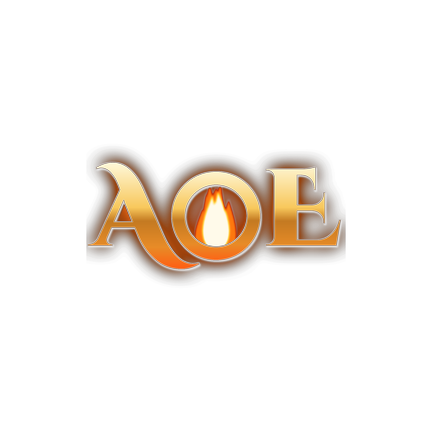
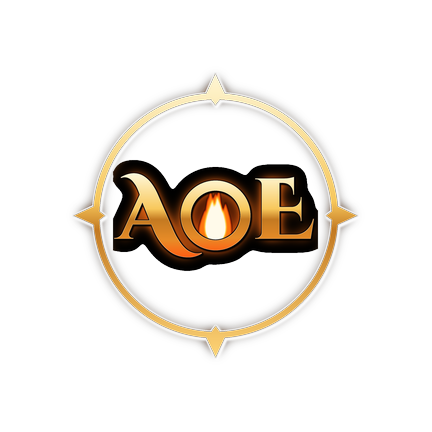
Ícone do app: AOE dentro do anel dourado de 4 pontas (como o do Aethra), pedido do André
Claude-Session: https://claude.ai/code/session_01P1kkg6tbyG8xzAx2skZLvW

Changed region(s): [[0.1505, 0.1505, 0.8426, 0.8426]]

diff --git a/ferramentas/icone/icone_anel.py b/ferramentas/icone/icone_anel.py
@@ -1,0 +1,39 @@
+import sys; sys.path.insert(0,'/tmp/claude-0/logo')
+from logo import *
+od=sys.argv[1]; LARG=float(sys.argv[2]) if len(sys.argv)>2 else 0.64
+em,al=emblema("aoe")
+bb=al.point(lambda v:255 if v>40 else 0).getbbox()
+def anel_simples(cx,cy,R):
+    m=anel(cx,cy,R,int(R*0.055)); d=ImageDraw.Draw(m)
+    for k in range(4):
+        a=k*math.pi/2+math.pi/2*0  # cima, direita, baixo, esquerda
+        r1=R*1.16; r0=R*0.9; w=R*0.075
+        px,py=cx+math.cos(a)*r1,cy+math.sin(a)*r1; bx,by=cx+math.cos(a)*r0,cy+math.sin(a)*r0
+        mx,my=cx+math.cos(a)*R,cy+math.sin(a)*R
+        nx,ny=-math.sin(a)*w,math.cos(a)*w
+        d.polygon([(px,py),(mx+nx,my+ny),(bx,by),(mx-nx,my-ny)],fill=255)
+    return m
+def fundo():
+    g=grad(S,S,0,S,[(0,(40,22,58)),(0.6,(22,12,34)),(1,(70,24,10))])
+    brasas(g,(S*0.05,S*0.05,S*0.95,S*0.95),45,seed=9,tam=2.5); return g
+def simbolo(larg):
+    w=bb[2]-bb[0]; cx=(bb[0]+bb[2])/2; cy=(bb[1]+bb[3])/2; lado=w/larg
+    box=(int(cx-lado/2),int(cy-lado/2),int(cx+lado/2),int(cy+lado/2))
+    pad=Image.new("RGB",(S*3,S*3)); pad.paste(em,(S,S)); pa=L(S*3,S*3); pa.paste(al,(S,S))
+    b=tuple(v+S for v in box)
+    return pad.crop(b).resize((S,S),Image.LANCZOS), pa.crop(b).resize((S,S),Image.LANCZOS)
+def compor(larg, com_fundo=True):
+    img=fundo() if com_fundo else Image.new("RGB",(S,S))
+    R=S*0.37; ring=anel_simples(S/2,S/2,R)
+    # fundo dentro do anel um pouco mais claro (como o Aethra)
+    if com_fundo:
+        dentro=L(); ImageDraw.Draw(dentro).ellipse([S/2-R,S/2-R,S/2+R,S/2+R],fill=255)
+        img.paste(solid((70,40,90)),(0,0),dentro.filter(ImageFilter.GaussianBlur(R*0.5)).point(lambda v:int(v*0.45)))
+    brilho(img,ring,(255,120,30),30,0.9)
+    metal(img,ring,S/2-R*1.16,S/2+R*1.16,9,[(0,(255,247,214)),(0.45,(248,200,92)),(0.55,(196,122,34)),(1,(255,214,120))])
+    c,a=simbolo(larg); img=Image.composite(c,img,a)
+    return img, ImageChops.lighter(ring,a)
+if __name__=="__main__":
+    img,_=compor(LARG); img.save(f"{od}/icone-anel-cheio.png")
+    sq=img.resize((512,512),Image.LANCZOS); mk=L(512,512); ImageDraw.Draw(mk).rounded_rectangle([0,0,511,511],radius=110,fill=255)
+    out=Image.new("RGBA",(512,512),(0,0,0,0)); out.paste(sq,(0,0),mk); out.save(f"{od}/icone-anel.png")

diff --git a/ferramentas/icone/icones_anel_app.py b/ferramentas/icone/icones_anel_app.py
@@ -1,0 +1,14 @@
+import sys; sys.path.insert(0,'/tmp/claude-0/logo')
+from icone_anel import *
+od=sys.argv[1]
+img,_=compor(0.62)
+img.resize((192,192),Image.LANCZOS).save(f"{od}/principal_192.png")
+# frente adaptativa: anel+símbolo sem fundo, dentro da zona segura (66% do meio)
+fr,al=compor(0.62,com_fundo=False)
+al=al.point(lambda v:255 if v>8 else 0).filter(ImageFilter.GaussianBlur(1))
+lum=fr.convert("L").point(lambda v:min(255,v*3)); a=ImageChops.lighter(al,lum)
+k=0.66/0.86; n=int(432*k)
+fr2=fr.resize((n,n),Image.LANCZOS).convert("RGBA"); fr2.putalpha(a.resize((n,n),Image.LANCZOS))
+out=Image.new("RGBA",(432,432),(0,0,0,0)); out.paste(fr2,((432-n)//2,(432-n)//2),fr2); out.save(f"{od}/frente_432.png")
+fundo().resize((432,432),Image.LANCZOS).save(f"{od}/fundo_432.png")
+mono=Image.new("RGBA",(432,432),(255,255,255,0)); ma=Image.new("L",(432,432),0); ma.paste(fr.convert("L").resize((n,n),Image.LANCZOS).point(lambda v:255 if v>110 else 0),((432-n)//2,(432-n)//2)); mono.putalpha(ma); mono.save(f"{od}/monocromatico_432.png")

diff --git a/README.md b/README.md
@@ -138,7 +138,7 @@ O servidor é quem decide: recarga, mana, dano e posição. O cliente só manda 
 | Música de combate do app Godot (godot-prototipo/musica/combate/, musica.gd troca com fade ao entrar e sair da luta): "Battle for the Kingdom" (luta.ogg, monstros em geral) e "Eye of the Storm" (chefe.ogg, chefes e masmorra), lista em godot-prototipo/musica/LICENCAS.md | Pixabay (baixadas pelo André), originais no repositório New-Game-Anime-fontes (musica/pixabay/) | Pixabay Content License (uso comercial, sem crédito) |
 | Capa do Aethra no fundo da tela de login do app Godot (godot-prototipo/ui/capa_aethra.jpg) | gerada por IA (AlbedoBase XL, SDXL, pela rede grátis AI Horde) e retocada; título com a fonte Cinzel Decorative (Google Fonts). Arquivos e scripts em /mnt/project-files/aethra-arte/ | próprio (licença CreativeML Open RAIL++-M libera uso comercial da imagem gerada); fonte SIL OFL |
 | Ícone do app Android "Aethra" (godot-prototipo/icone_app/: fundo, frente, monocromático e 192 px) | desenhado por código próprio (ferramentas/icone/icone.py: A artístico (Cinzel Decorative) com a perna fina virando o Cajado A e a barra virando a Espada A, no anel dourado da capa; a opção B usa a fonte Cinzel Decorative, Google Fonts) | próprio; fonte SIL OFL |
-| Capa "Age of Embers" da tela de login (godot-prototipo/ui/capa_age_of_embers.jpg) e ícone novo do app (godot-prototipo/icone_app/, símbolo AOE com a brasa no O; o ícone antigo do Aethra fica em ferramentas/icone/aethra-antigo/) | mesma arte da capa do Aethra, sem título; símbolo, brasas e nome desenhados por código próprio (ferramentas/icone/logo.py e icones_app.py) com a fonte Cinzel Decorative (Google Fonts) | próprio; fonte SIL OFL |
+| Capa "Age of Embers" da tela de login (godot-prototipo/ui/capa_age_of_embers.jpg) e ícone novo do app (godot-prototipo/icone_app/, símbolo AOE com a brasa no O dentro do anel dourado de 4 pontas; o ícone antigo do Aethra fica em ferramentas/icone/aethra-antigo/) | mesma arte da capa do Aethra, sem título; símbolo, brasas e nome desenhados por código próprio (ferramentas/icone/logo.py, icone_anel.py e icones_anel_app.py) com a fonte Cinzel Decorative (Google Fonts) | próprio; fonte SIL OFL |
 | Ícones pintados dos itens da mochila (godot-prototipo/icones/itens/: capacete, peitoral, calça e botas em couro e em aço, short, capa, óculos, colar, espada, cajado, poções, tomo, ouro) | gerados por IA (AlbedoBase XL, SDXL, pela rede grátis AI Horde), fundo removido com rembg (isnet, MIT). Originais em /mnt/project-files/armaduras/icones/ | próprio (CreativeML Open RAIL++-M libera uso comercial da imagem gerada) |
 | Ícones pintados de construção, materiais, horta e profissões (2026-11-06, pedido do André: padronizar com os itens): godot-prototipo/icones/itens/ (minérios, barras, pedra, carvão, cristal, lenha, couro, tecido, fragmento, passe da caverna, colheitas, sementes, enxada, regador) e godot-prototipo/icones/pintados/ (cs_*, construir, lote, correio, pf_*). Os .svg de traço continuam no repositório como reserva | gerados por IA (AlbedoBase XL, SDXL; martelo, desmontar, enxada e parede com FLUX.1-schnell, Apache 2.0; ambos pela rede grátis AI Horde), fundo removido com rembg (isnet e u2net, MIT). Originais e roteiros em /mnt/project-files/icones-pintados/ | próprio (CreativeML Open RAIL++-M libera uso comercial da imagem gerada) |
 | Ícones pintados da cozinha (2026-11-07): carne crua e os 5 pratos em godot-prototipo/icones/itens/, fogão (cs_fogao) e Cozinheiro (pf_coz) em godot-prototipo/icones/pintados/. O fogão no jogo é a fogueira de pedra da mata (Poly Haven, já listada acima) com tripé e caldeirão montados em código | gerados por IA (FLUX.1-schnell, Apache 2.0, pela rede grátis AI Horde), fundo removido com rembg (isnet, MIT). Originais em /mnt/project-files/icones-pintados/cozinha/ | próprio (saída da IA sem restrição de uso comercial) |
